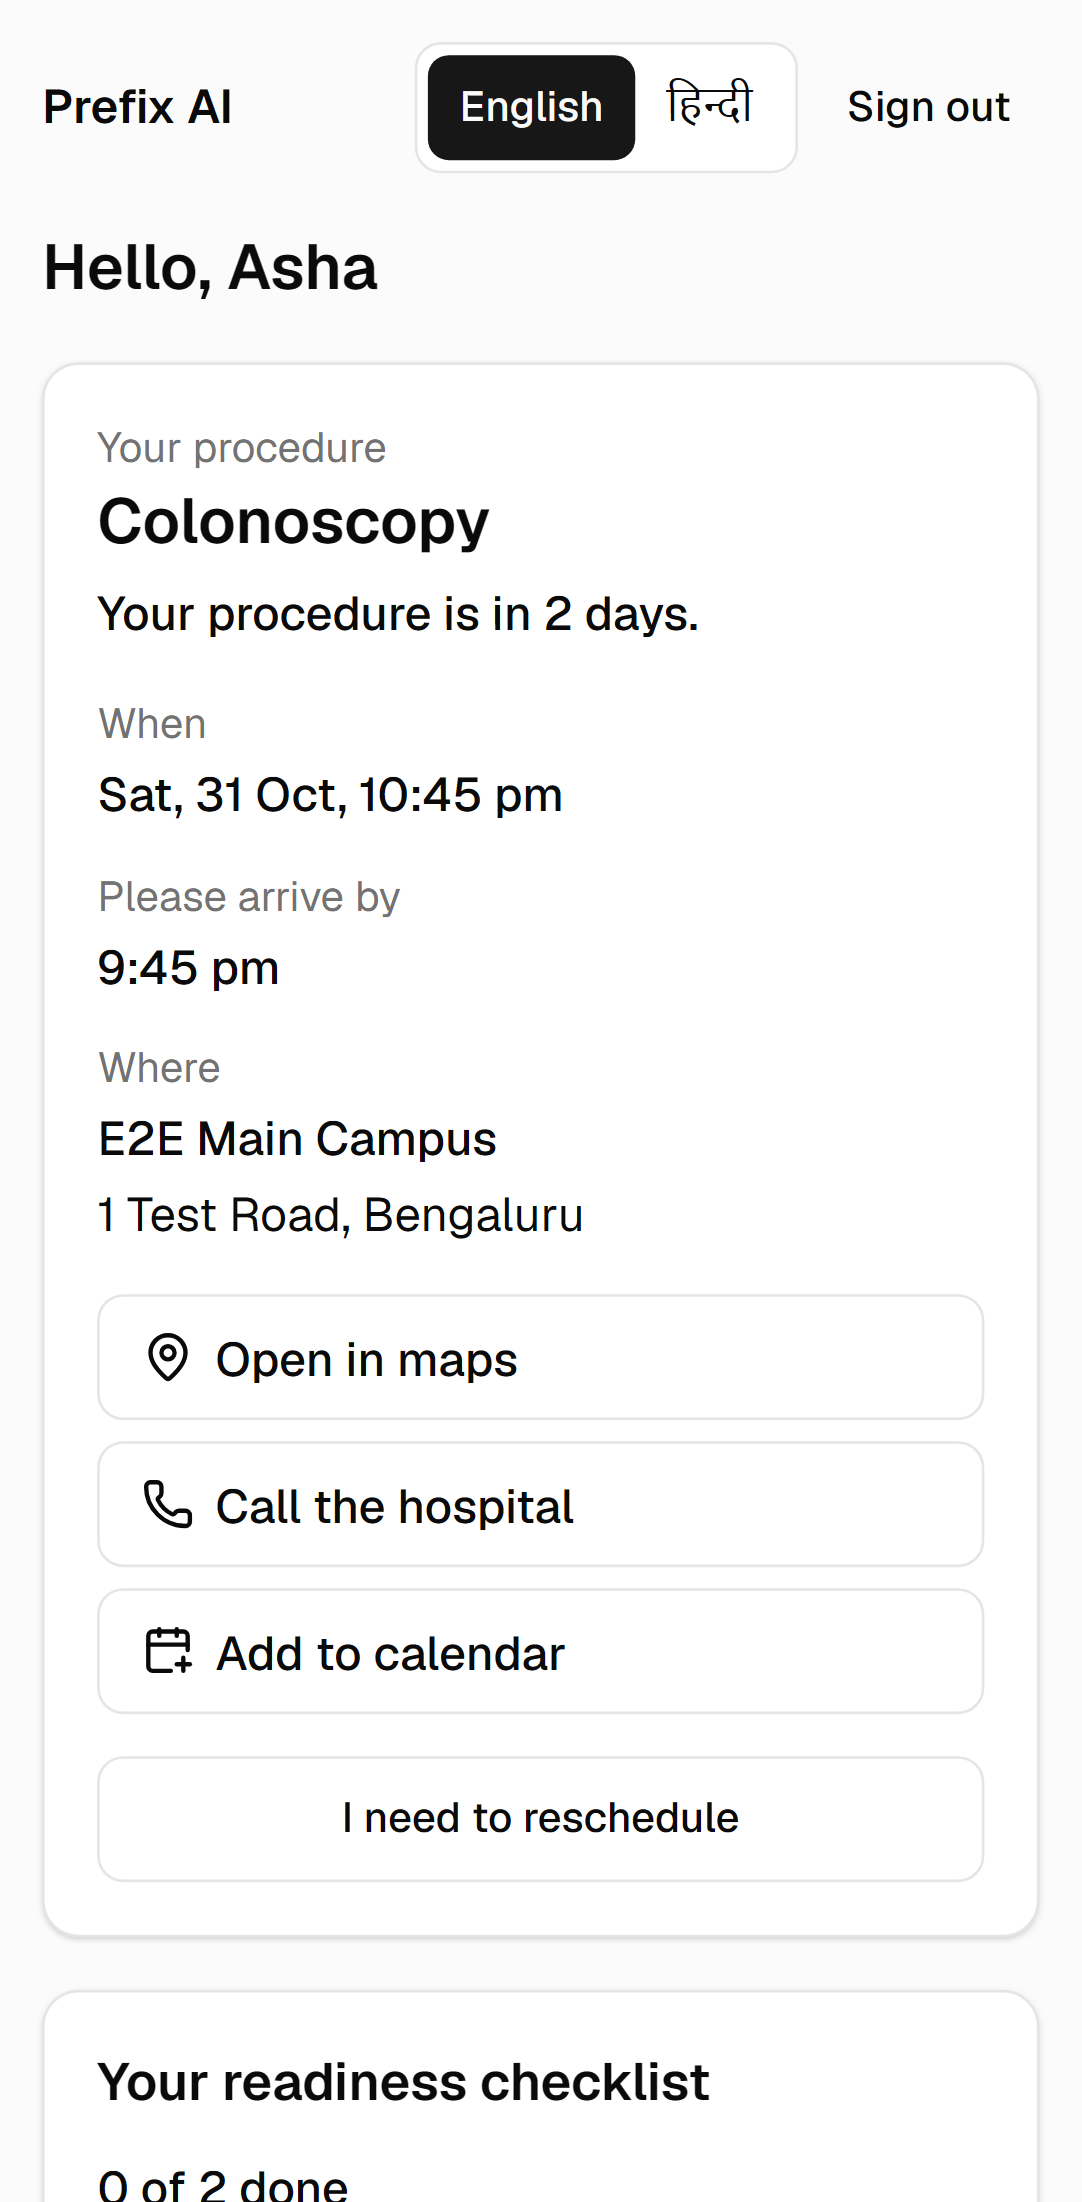
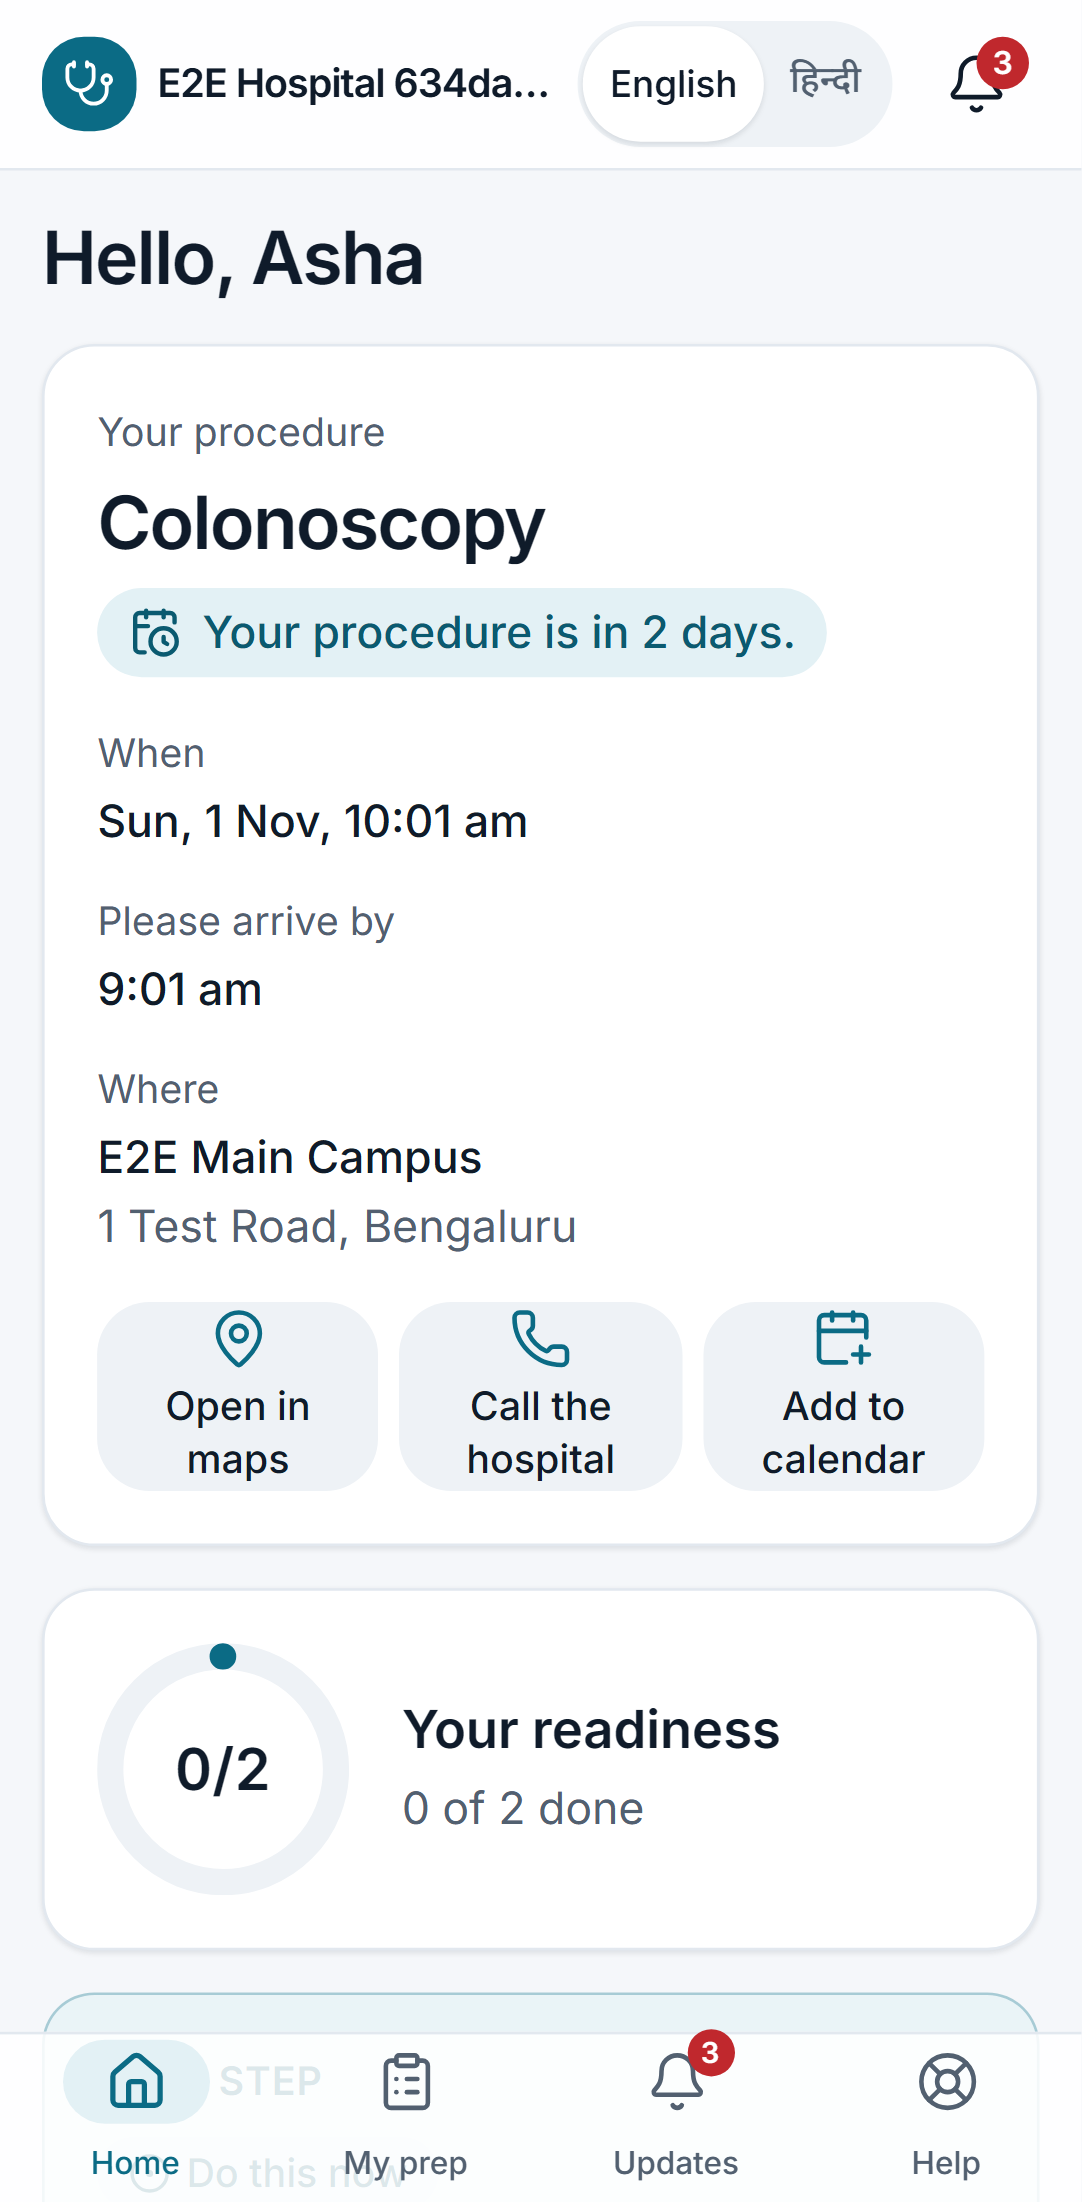
docs: redesign screenshots, README walkthrough and version 1.2.0
After screenshots at desktop and phone size sit next to the before set
in docs/screenshots/redesign/. The README walkthrough pictures are
retaken in the new design, with a new Updates picture, and the text
describes the sidebar, patient sheet, Requests and the portal tabs.
PROGRESS records the redesign. All packages are at 1.2.0.

diff --git a/README.md b/README.md
@@ -163,7 +163,9 @@ Patients open their prep plan from a single-use link (`http://localhost:3000/p#t
 uv run python scripts/e2e_portal_fixture.py
 ```
 
-This creates a throwaway test hospital with three patients (English, Hindi, and one more) whose procedure is in two days, and prints one link for each. Open a link on your phone or in a narrow browser window. Each link works once. Staff can issue a real patient's link with `POST /patients/{id}/magic-links`.
+This creates a throwaway test hospital with a few patients (one in Hindi) whose procedure is in two days, and prints one link for each. Open a link on your phone or in a narrow browser window. Each link works once. Staff can issue a real patient's link with `POST /patients/{id}/magic-links`.
+
+The portal works like a phone app, with a tab bar: **Home** (the procedure, a readiness ring and the next step), **My prep** (every step, with *Yes, done* and *I have a problem*), **Updates** (reminders, steps to do now, care-team messages and answers to reschedule requests, with an unread count on the bell and the tab) and **Help** (call 112 or the hospital, ask to reschedule, and the assistant). Everything is in English and Hindi.
 
 ## Guest demo
 
@@ -182,11 +184,13 @@ Start the app and seed the demo (see [Quick start](#quick-start), or `make up`, 
 
    ![Login page with Try as Guest](docs/screenshots/01-login-try-as-guest.png)
 
-2. **Overview.** *Next 72 hours* lists upcoming procedures, least ready first, with readiness, risk and open escalations. Open a patient to see the prep steps, what has been confirmed and any problem reported.
+2. **Overview.** The sidebar groups the work: *Today* (Overview, Tasks, Requests), *Patients* (Inbox, Waitlist), *Clinical*, *Insights* and *Admin*, with counts on what is waiting. The overview has four summary cards, then the next 72 hours least ready first, each with a coloured risk pill and its reasons. Filter with *All*, *Needs attention* or *High risk*.
 
-   ![Coordinator dashboard](docs/screenshots/02-coordinator-dashboard.png)
+   ![Coordinator overview](docs/screenshots/02-coordinator-dashboard.png)
 
-   ![Patient drawer with prep steps](docs/screenshots/03-patient-drawer.png)
+   Open a patient to see them in a sheet with tabs (Overview, Prep timeline, Messages, Requests, Activity) and an action bar: **Call logged**, **Confirm escort**, **Reschedule** and **Cancel**. Each asks for confirmation, and every action ends in a toast.
+
+   ![Patient sheet with the prep timeline](docs/screenshots/03-patient-drawer.png)
 
 3. **Protocols.** Clinician-approved prep instructions. Only approved versions are ever sent to patients.
 
@@ -196,25 +200,30 @@ Start the app and seed the demo (see [Quick start](#quick-start), or `make up`, 
 
    ![Analytics](docs/screenshots/05-analytics.png)
 
-5. **Inbox and tasks.** Red-flag and out-of-protocol questions from patients reach a nurse in the inbox. Guests can resolve them, since the demo is shared. Tasks are the work the system opened for you, most overdue first; **Log done** closes one.
+5. **Inbox, tasks and requests.** Red-flag and out-of-protocol questions from patients reach a nurse in the inbox. Guests can resolve them, since the demo is shared. Tasks are the work the system opened for you, most overdue first; **Log done** closes one. Requests lists patients who asked to reschedule: **Approve** with a new time, or **Decline**. The patient sees the answer under Updates.
 6. **Waitlist.** The demo has one cancelled slot and three patients waiting for that procedure. Each offer names the patient and says why they fit. Coordinators press **Find backfill**, then **Accept** or **Decline**. Guests see the offer but cannot act on it; sign in as the demo admin to try the actions.
 7. **Import.** Check a CSV of patients before anything is saved. Each bad row is listed with its line and column, and only coordinators and admins can import.
 
    ![CSV import dry run](docs/screenshots/06-csv-import-dry-run.png)
 
-8. **Patient portal.** The patient sees their prep plan on a phone, in English or Hindi, and can confirm a step, report a problem or add the procedure to a calendar. Each link works once. Get fresh test links with `uv run python scripts/e2e_portal_fixture.py`.
+8. **Patient portal.** The patient sees their procedure and prep plan on a phone, in English or Hindi. Home shows a countdown, maps, call and calendar buttons, a readiness ring and the next step. Updates lists what needs doing and what the care team said, newest first; the most urgent unread one also drops in as a banner. Each link works once. Get fresh test links with `uv run python scripts/e2e_portal_fixture.py`.
 
-   <img src="docs/screenshots/07-portal-english-mobile.png" alt="Patient portal in English on a phone" width="300"> <img src="docs/screenshots/08-portal-hindi-mobile.png" alt="Patient portal in Hindi on a phone" width="300">
+   <img src="docs/screenshots/07-portal-english-mobile.png" alt="Patient portal home in English on a phone" width="260"> <img src="docs/screenshots/08-portal-hindi-mobile.png" alt="Patient portal home in Hindi on a phone" width="260"> <img src="docs/screenshots/10-portal-updates-mobile.png" alt="Patient portal Updates on a phone" width="260">
 
-9. **AI assistant.** The patient asks about their own prep. With no Anthropic key set, a question the plan cannot answer goes to a nurse, as in this picture. With a key, the assistant answers only from the patient's own plan.
+9. **AI assistant.** Under Help, the patient asks about their own prep. With no Anthropic key set, a question the plan cannot answer goes to a nurse, as in this picture. With a key, the assistant answers only from the patient's own plan.
 
    <img src="docs/screenshots/09-assistant-chat-mobile.png" alt="AI assistant on a phone" width="300">
 
+
+## Design
+
+Version 1.2 redesigned both apps as a calm medical service with Apple-style motion. [docs/DESIGN.md](docs/DESIGN.md) has the colour and type tokens, the motion rules, where every feature lives, and how patient Updates are built. Before-and-after screenshots at desktop and phone sizes are in [docs/screenshots/redesign/](docs/screenshots/redesign/) (`before/` and `after/`), retaken with `SCREENSHOTS=1 SHOTS_SET=after pnpm --filter @prefix/web exec playwright test redesign-screenshots`.
 
 ## Documentation
 
 - [Architecture](docs/ARCHITECTURE.md): data flow, entities, security model, timeline, portal, integrations.
 - [Compliance](docs/COMPLIANCE.md): how HIPAA and DPDP duties are met, and the gaps.
+- [Design](docs/DESIGN.md): tokens, motion, navigation map and patient Updates.
 - [Deployment](docs/DEPLOYMENT.md): what runs, the environment, the steps, backups, and the known limits.
 - [Integrations](docs/INTEGRATIONS.md): CSV import formats and the FHIR plan.
 - [Risk model](docs/model_report.md): what the cancellation score uses and where it is weak.

diff --git a/PROGRESS.md b/PROGRESS.md
@@ -4,7 +4,7 @@ Each phase gets a short plan before work starts. Tick a phase only when lint, ty
 
 ## Resume point
 
-**Status:** Released. Version 1.0.0 shipped on 2026-10-28 (tag `v1.0.0`), with the polish release v1.0.1 on 2026-10-29 (local development guide, `corepack enable` setup, README quick start and screenshots). All phases 0–12 are merged.
+**Status:** Released. Version 1.0.0 shipped on 2026-10-28 (tag `v1.0.0`), with the polish release v1.0.1 on 2026-10-29 (local development guide, `corepack enable` setup, README quick start and screenshots) and the UI redesign v1.2.0 on 2026-10-30 (see the last entry below). All phases 0–12 are merged.
 **Goal:** demo-ready v1.0.0 as fast as possible, without weakening the safety rules. Speed rules: related tests while developing, full suite once per plan item, Playwright once per phase, pre-commit on changed files, push after each item, wait for CI only before merging into main. About 60–90 minutes per phase. A problem that takes over 15 minutes is logged under "Known issues" and skipped.
 **Known gaps before a real hospital goes live** (details in [docs/COMPLIANCE.md](docs/COMPLIANCE.md)): no retention schedule or erasure job; no subject-access export; no breach-notification workflow; no first-admin command for a real hospital (the seed creates demonstration data only); vendor agreements (Twilio, SMTP, Anthropic) are the hospital's to sign.
 
@@ -189,4 +189,12 @@ Tags follow CLAUDE.md's `v0.<n>.0` pattern for each phase's own number, so they 
   - No first-admin command for a real hospital. The seed creates demonstration data only, so a real admin is created by hand (`docs/DEPLOYMENT.md`).
   - The content policy allows inline scripts because Next.js needs them for page data. Nonces are the next step.
   - The portal can take more than 5 seconds to leave the magic-link page under a full parallel run, so the e2e expect timeout is 15 seconds. Single-worker runs are fast. The exact cause under load is not isolated.
-  - The README walkthrough is text only. Screenshots were not produced.
+  - The README walkthrough is text only. Screenshots were not produced. (Added in v1.0.1.)
+- [x] **v1.2 — UI redesign** · 2026-10-30 · `v1.2.0` · branch `feat-ui-redesign`
+  A calm medical design system (teal-blue, cool greys, green/amber/red status, light and dark tokens, system fonts with Noto Sans Devanagari) and Apple-style motion with spring presets and reduced-motion support (`docs/DESIGN.md`). Staff get a grouped sidebar with badge counts, a top bar with patient search and notifications, an overview with summary cards and risk pills, a patient sheet with tabs and a confirmed action bar, a Requests page, and a toast for every action. The patient portal became a phone app with Home, My prep, Updates and Help tabs, an unread bell and an urgent banner. New endpoints: patient notifications (derived feed plus a `patient_notification_read` table, migration 0009), call logging, staff messages, reschedule request answers and sidebar badges, all audited.
+  Verified: 505 pytest, 112 Vitest, 16 Playwright (portal, staff, and a new axe spec at desktop and phone size), ruff, mypy, ESLint, tsc and Prettier clean. CI result is recorded at merge.
+  **Notes:**
+  - Notification text is never generated: the API sends a kind and fields, and the portal fills fixed English and Hindi templates. Red-flag content is never echoed back as an update.
+  - The staff patient sheet now shows each step's state as the patient sees it, so a step past its time reads "Due now" or "Overdue" even when no reminder went out.
+  - Found while testing: toasts were hidden from screen readers while a modal sheet was open, and the risk score text in the amber pill was below 4.5:1. Both fixed.
+  - The pre-commit Prettier hook now runs through `node`: on Windows the pnpm shim could not pass the `(app)` route-group paths.
